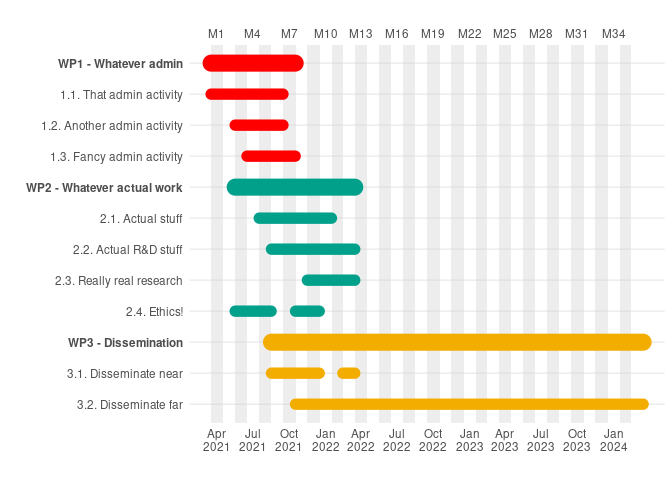
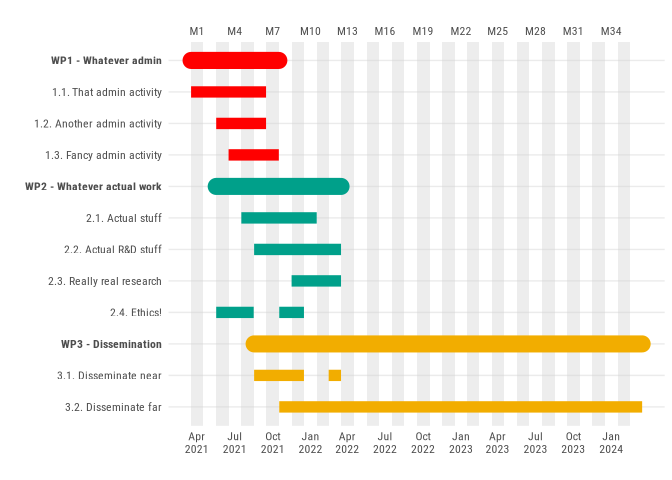
enable further customisation of the outlook of spot events

diff --git a/README.md b/README.md
@@ -56,7 +56,7 @@ And yes, I will enable all the customisations you like, but first I
 actually need to submit this project.
 
 \[Thanks to all who contributed suggestions via issues and pull
-request!\]
+requests!\]
 
 ## Features
 
@@ -163,18 +163,57 @@ ganttrify(project = ganttrify::test_project,
 
 <img src="man/figures/README-gantt_no_wp-1.png" width="100%" />
 
-I thought we all liked rounded lines and full opacity, but it’s ok if
-you don’t:
+I felt that rounded line endings for the working packages, and “butt”
+ending for activities is the best combination of elegance and clarity.
+
+Also, I like full opacity for the lines, but it’s ok if you don’t:
 
 ``` r
 ganttrify(project = ganttrify::test_project,
           project_start_date = "2021-04",
           alpha_wp = 0.9,
           alpha_activity = 0.6,
-          line_end = "butt")
+          line_end_wp = "round", # alternative values: "butt" or "square"
+          line_end_activity = "round", # alternative values: "butt" or "square"
+          font_family = "Roboto Condensed")
 ```
 
 <img src="man/figures/README-gantt_butt_line_transparency-1.png" width="100%" />
+If you use spot events, then there’s all sorts of opinions you can have
+about the color and transparency of spot events, as well as the size and
+padding around the text. Say, you want a larger box around the text, but
+a semi-transparent background? There you go!
+
+``` r
+ganttrify(project = ganttrify::test_project,
+          spots = ganttrify::test_spots,
+          project_start_date = "2021-04",
+          font_family = "Roboto Condensed",
+          spot_size_text_relative = 1.5,
+          spot_fill = ggplot2::alpha(c("white"), 0.7),
+          spot_padding = ggplot2::unit(0.4, "lines")
+          ) 
+```
+
+<img src="man/figures/README-spot_customisations-1.png" width="100%" />
+Or perhaps you actually just want the label text, without any
+background, or perhaps change the text colour. Be mindful that the text
+may become hard to read on darker backgrounds, especially if reviewers
+then print your proposal, but… you have been warned:
+
+``` r
+ganttrify(project = ganttrify::test_project,
+          spots = ganttrify::test_spots,
+          project_start_date = "2021-04",
+          font_family = "Roboto Condensed",
+          spot_text_colour = "grey10",
+          spot_fontface = "bold",
+          spot_fill = NA,
+          spot_border = NA
+          ) 
+```
+
+<img src="man/figures/README-spot_text-1.png" width="100%" />
 
 Some of us work on very long projects, and may need to declutter the
 chart to increase readability. So let’s show the month number only once
@@ -188,7 +227,8 @@ test_36[11,4] <- 36
 ganttrify(project = test_36,
           project_start_date = "2021-04", 
           month_breaks = 3,
-          show_vertical_lines = FALSE)
+          show_vertical_lines = FALSE,
+          font_family = "Roboto Condensed")
 ```
 
 <img src="man/figures/README-gantt_36_months-1.png" width="100%" />
@@ -200,7 +240,8 @@ Does right-aligned text bother you?
 ganttrify(project = ganttrify::test_project,
           spots = ganttrify::test_spots,
           project_start_date = "2021-04",
-          axis_text_align = "left") 
+          axis_text_align = "left",
+          font_family = "Roboto Condensed") 
 ```
 
 <img src="man/figures/README-gantt_left_aligned-1.png" width="100%" />
@@ -210,7 +251,8 @@ ganttrify(project = ganttrify::test_project,
 ganttrify(project = ganttrify::test_project,
           spots = ganttrify::test_spots,
           project_start_date = "2021-04",
-          axis_text_align = "centre") 
+          axis_text_align = "centre",
+          font_family = "Roboto Condensed") 
 ```
 
 <img src="man/figures/README-gantt_centre_aligned-1.png" width="100%" />
@@ -234,7 +276,7 @@ tibble::tribble(~wp, ~activity, ~start_date, ~end_date,
 Finally, keep in mind that ganttrify outputs `ggplot` objects. Some
 theming options may not behave exactly as you expect, but for example
 adding title, subtitle, and captions can be done as you would normally
-do with any `ggplot` graphs.
+do with any `ggplot2` graph.
 
 ``` r
 ganttrify(project = ganttrify::test_project,
@@ -358,11 +400,11 @@ At this stage, the package has strong expectations about the input
 format, and does not provide meaningful error messages. If you see
 unexpected results, please consider that:
 
--   no cell in the activity column must be empty
--   an activity cannot be called the same as a wp
--   activities in different wp should have different names (or at least
-    add a space at the end or something so that they look different to
-    the computer).
+- no cell in the activity column must be empty
+- an activity cannot be called the same as a wp
+- activities in different wp should have different names (or at least
+  add a space at the end or something so that they look different to the
+  computer).
 
 Some of this limitations should be dealt with in a future update.
 
